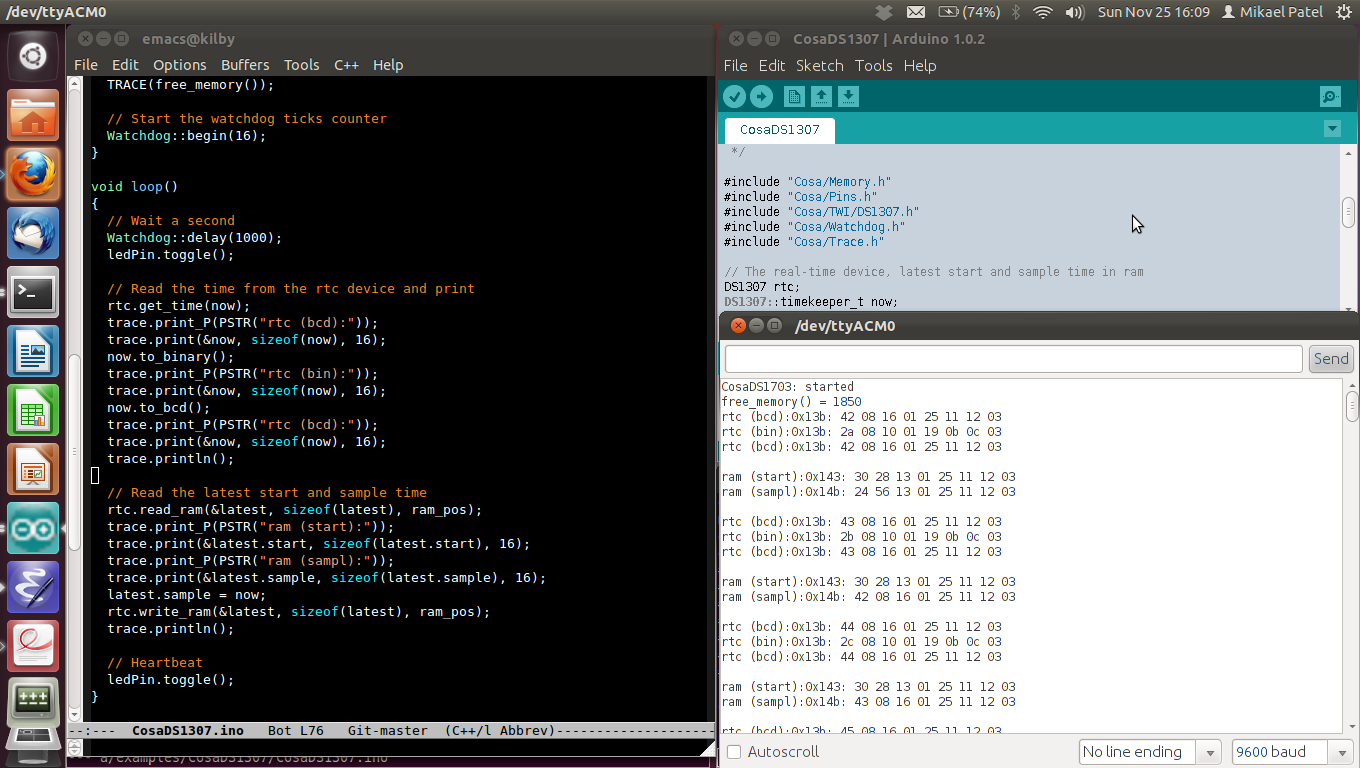
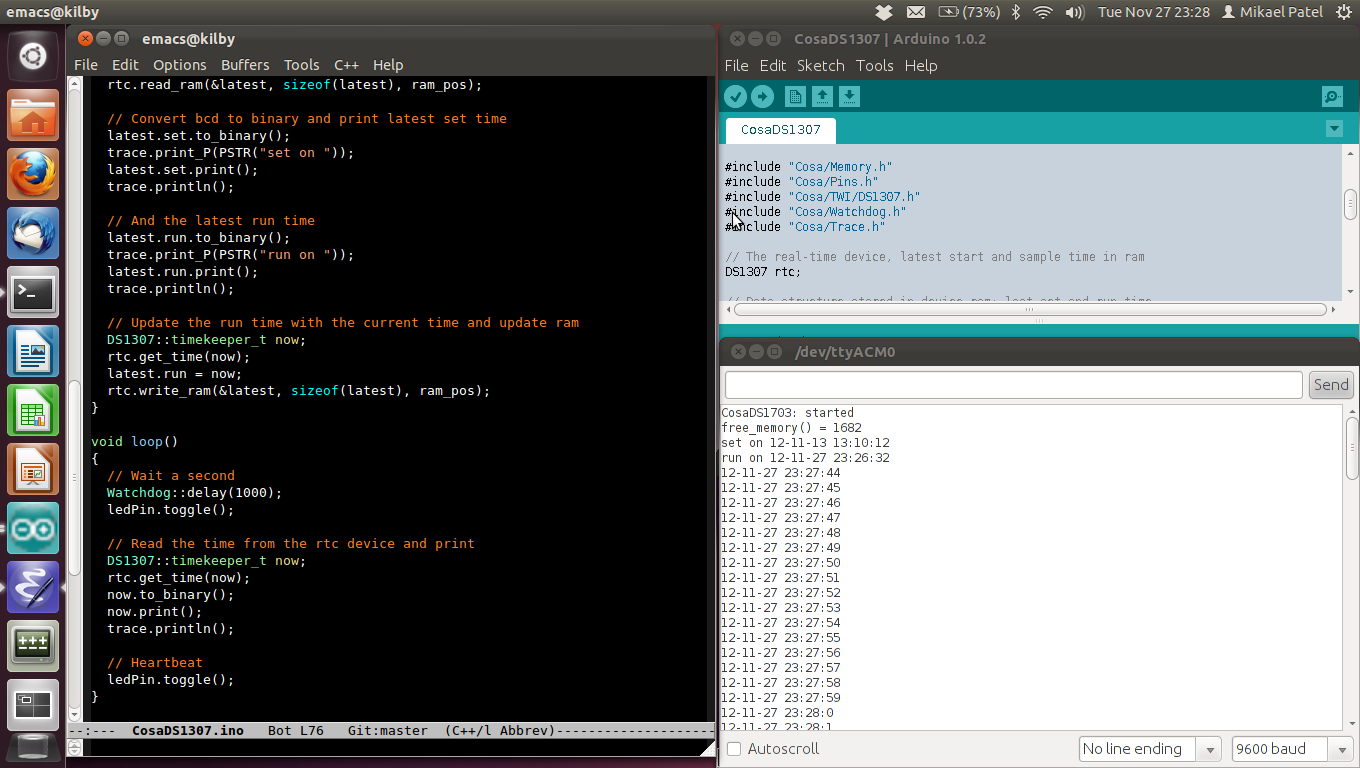
Improved DS1307 TWI RTC. Added print function and updated example code.

diff --git a/Cosa/TWI/DS1307.cpp b/Cosa/TWI/DS1307.cpp
@@ -46,6 +46,13 @@ DS1307::timekeeper_t::to_bcd()
     buf[i] = bin_to_bcd(buf[i]);
 }
 
+void 
+DS1307::timekeeper_t::print(IOStream& stream, const char* format)
+{
+  if (format == 0) format = PSTR("%d-%d-%d %d:%d:%d");
+  stream.printf_P(format, year, month, date, hours, minutes, seconds);
+}
+
 int
 DS1307::read_ram(void* buf, uint8_t size, uint8_t pos)
 {
@@ -64,3 +71,5 @@ DS1307::write_ram(void* buf, uint8_t size, uint8_t pos)
   end();
   return (count);
 }
+
+

diff --git a/Cosa/TWI/DS1307.h b/Cosa/TWI/DS1307.h
@@ -31,6 +31,8 @@
 #define __COSA_TWI_DS1307__
 
 #include "Cosa/TWI.h"
+#include "Cosa/IOStream.h"
+#include "Cosa/Trace.h"
 
 class DS1307 : private TWI {
 
@@ -53,6 +55,7 @@ public:
     uint8_t cntl;
     void to_binary();
     void to_bcd();
+    void print(IOStream& stream = trace, const char* format = 0);
   };
 
   /**

diff --git a/examples/CosaDS1307/README.md b/examples/CosaDS1307/README.md
@@ -1,6 +1,6 @@
 CosaDS1307
 ====
 
-Demonstration of Cosa TWI driver for the DS1307, 64 X 8, Serial I2C Real-Time Clock. See Bench and Screenshot.
+Demonstration of Cosa TWI driver for the DS1307, 64 X 8, Serial I2C Real-Time Clock. See Screenshot.
 
 
